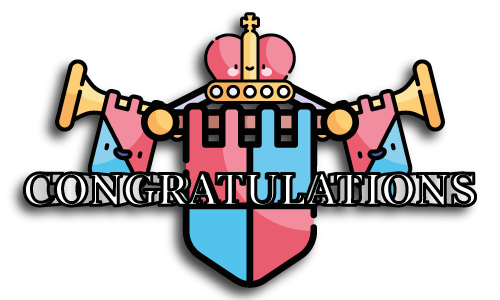
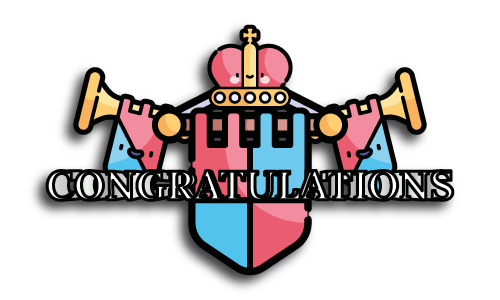
added confetti effect to won screen

diff --git a/lib/game_stage.dart b/lib/game_stage.dart
@@ -5,6 +5,7 @@ import 'package:hang_royal/hangman_graphic.dart';
 import 'package:hang_royal/power_items.dart';
 import 'package:hang_royal/puzzle.dart';
 import 'package:hang_royal/rive_template.dart';
+import 'package:hang_royal/won_screen.dart';
 import 'letter_picker.dart';
 
 class GameStage extends StatefulWidget {
@@ -166,74 +167,6 @@ class _GameStageState extends State<GameStage> {
         ),
       ],
     );
-
-    // Column(
-    //   children: [
-    //     Container(
-    //       width: 700,
-    //       height: 500,
-    //       // decoration: BoxDecoration(
-    //       //   // image: DecorationImage(
-    //       //   //   image: AssetImage('assets/images/graphics-background.png'),
-    //       //   //   fit: BoxFit.cover,
-    //       //   // ),
-    //       //   color: Colors.white,
-    //       //   borderRadius: BorderRadius.only(
-    //       //     bottomLeft: Radius.circular(15.0),
-    //       //     bottomRight: Radius.circular(15.0),
-    //       //   ),
-    //       //   boxShadow: [
-    //       //     BoxShadow(
-    //       //       color: Colors.black.withOpacity(0.3),
-    //       //       spreadRadius: 5,
-    //       //       blurRadius: 10,
-    //       //       offset: Offset(0, 3),
-    //       //     ),
-    //       //   ],
-    //       // ),
-    //       child: HangmanGraphic(gameStageBloc: _gameStageBloc),
-    //     ),
-    //     Container(
-    //       width: 70,
-    //       height: 70,
-    //       transform: Matrix4.translationValues(0.0, -35.0, 0.0),
-    //       padding: EdgeInsets.all(0),
-    //       decoration: BoxDecoration(
-    //         borderRadius: BorderRadius.circular(10.0),
-    //         color: Colors.white,
-    //         boxShadow: [
-    //           BoxShadow(
-    //             color: Colors.black.withOpacity(0.3),
-    //             spreadRadius: 5,
-    //             blurRadius: 10,
-    //             offset: Offset(0, 3),
-    //           ),
-    //         ],
-    //       ),
-    //       child: Align(
-    //         alignment: Alignment.topCenter,
-    //         child: Container(
-    //           width: 70.0,
-    //           height: 70.0,
-    //           // color: Colors.red,
-    //           child: FlatButton(
-    //             onPressed: () {
-    //               _gameStageBloc.endGame();
-    //             },
-    //             padding: EdgeInsets.zero,
-    //             shape: RoundedRectangleBorder(
-    //               borderRadius: BorderRadius.circular(10.0),
-    //             ),
-    //             child: Image.asset(
-    //               'assets/images/hang_faces/orc.png',
-    //               fit: BoxFit.fill,
-    //             ),
-    //           ),
-    //         ),
-    //       ), // later this will be the selector dart for a character
-    //     )
-    //   ],
-    // );
   }
 
   Widget _buildIntro() {
@@ -294,36 +227,8 @@ class _GameStageState extends State<GameStage> {
         ),
       );
     } else if (gameState == GameState.succeeded) {
-      return Center(
-        child: Column(
-          mainAxisAlignment: MainAxisAlignment.center,
-          children: <Widget>[
-            Container(
-              width: 500.0,
-              height: 500.0,
-              child: Align(
-                alignment: Alignment.topCenter,
-                child: Container(
-                    width: 500.0,
-                    height: 500.0,
-                    child: Image.asset('assets/images/texts/flat-won.png')),
-              ),
-            ),
-            Column(
-              children: [
-                Text(
-                  "The word was: " + _gameStageBloc.curGuessWord.value,
-                  style: TextStyle(
-                      fontWeight: FontWeight.bold,
-                      fontSize: 20.0,
-                      color: Colors.grey[800]),
-                ),
-                _buildNewGameButton(),
-              ],
-            ),
-          ],
-        ),
-      );
+      return WonScreen(
+          button: _buildNewGameButton(), gameStageBloc: _gameStageBloc);
     } else {
       return null;
     }

diff --git a/lib/won_screen.dart b/lib/won_screen.dart
@@ -1,0 +1,94 @@
+import 'package:flutter/material.dart';
+import 'package:hang_royal/game_stage_bloc.dart';
+import 'package:rive/rive.dart';
+import 'package:flutter/services.dart';
+
+class WonScreen extends StatefulWidget {
+  final Widget button;
+  final GameStageBloc gameStageBloc;
+
+  const WonScreen(
+      {Key key, @required this.gameStageBloc, @required this.button})
+      : super(key: key);
+
+  @override
+  _WonScreenState createState() => _WonScreenState();
+}
+
+class _WonScreenState extends State<WonScreen> {
+  final riveFileName = 'assets/rive/small_confetti.riv';
+  Artboard _artboard;
+
+  @override
+  void initState() {
+    _loadRiveFile();
+    super.initState();
+  }
+
+  // loads a Rive file
+  void _loadRiveFile() async {
+    final bytes = await rootBundle.load(riveFileName);
+    final file = RiveFile();
+
+    if (file.import(bytes)) {
+      // Select an animation by its name
+      setState(() => _artboard = file.mainArtboard
+        ..addController(
+          SimpleAnimation('explosion'),
+        ));
+    }
+  }
+
+  @override
+  Widget build(BuildContext context) {
+    return Center(
+      child: Column(
+        mainAxisAlignment: MainAxisAlignment.center,
+        children: <Widget>[
+          Stack(
+            children: [
+              Container(
+                width: 500.0,
+                height: 500.0,
+                child: Stack(
+                  children: [
+                    Align(
+                      alignment: Alignment.topCenter,
+                      child: Container(
+                          width: 500.0,
+                          height: 500.0,
+                          child:
+                              Image.asset('assets/images/texts/flat-won.png')),
+                    ),
+                  ],
+                ),
+              ),
+              Container(
+                width: 700,
+                height: 500,
+                child: _artboard != null
+                    ? Rive(
+                        artboard: _artboard,
+                        fit: BoxFit.fitWidth,
+                      )
+                    : Container(),
+              ),
+            ],
+          ),
+          Column(
+            children: [
+              Text(
+                "The word was: " + widget.gameStageBloc.curGuessWord.value,
+                style: TextStyle(
+                    fontWeight: FontWeight.bold,
+                    fontSize: 20.0,
+                    color: Colors.grey[800]),
+              ),
+              widget.button,
+            ],
+          ),
+        ],
+      ),
+    );
+  }
+}
